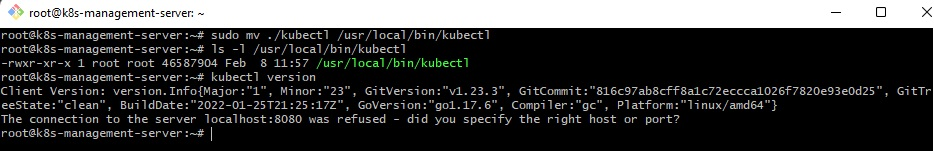
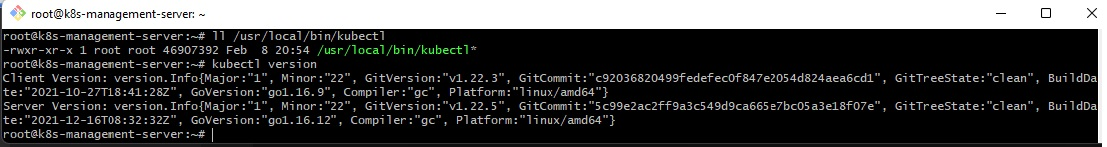
Rename DevOps-Project-Phase-5.md file to DevOps-Project-Phase-5-using-kops file

Changed region(s): [[0.0, 0.1633, 1.0, 1.0], [0.0, 0.0, 0.2173, 0.1361], [0.9315, 0.0272, 1.0, 0.1361]]

diff --git a/DevOps-Project-Phase-5-using-kops.md b/DevOps-Project-Phase-5-using-kops.md
@@ -4,7 +4,7 @@
 
 # A - Kubernetes (K8s) Cluster installation on AWS using Kops
 
- ### 1. Launch an EC2 instance k8s-manager-server
+ ### 1. Launch an EC2 instance k8s-management-server
    Uses Ubuntu Server 20.04 LTS AMI (64-bit Arm)
 
 ![ubuntu-server-20-04-lts-ami!](Images/Phase5/ubuntu-server-20-04-lts-ami.jpg)
@@ -39,8 +39,7 @@
     . curl https://s3.amazonaws.com/aws-cli/awscli-bundle.zip -o awscli-bundle.zip
     . ls
    ![download-awscli-bundle!](Images/Phase5/download-awscli-bundle.jpg)
-    
-    . apt install unzip python -y
+
     . unzip awscli-bundle.zip
     . ls
    ![unzip-awscli-bundle](Images/Phase5/unzip-awscli-bundle.jpg)
@@ -66,7 +65,7 @@
    ![chmod+x-kubectl!](Images/Phase5/chmod+x-kubectl.jpg)
 
     . sudo mv ./kubectl /usr/local/bin/kubectl
-    . ls -l /usr/local/bin/kubectl
+    . ll /usr/local/bin/kubectl
     . kubectl version
    ![kubectl-version!](Images/Phase5/kubectl-version.jpg)
 
@@ -86,7 +85,10 @@
 
       . sudo mv kops-linux-amd64 /usr/local/bin/kops
       . ls -l /usr/local/bin/kops
+      . kops version
    ![kops-version!](Images/Phase5/kops-version.jpg)
+   It is important that the version of kubectl(here v1.22.3) is the same as the version of kops(v1.22.3)
+   
 
 ### 6. Create an IAM user/role with Route53, EC2, IAM and S3 full access
 
@@ -151,7 +153,7 @@
 
 
 ### 7. Create a Route53 private hosted zone(you can create Public hosted zone if you have a domain)
-    Routeh53 --> DNS management 
+    Route53 --> DNS management 
     
     Click Create hosted zone button
 
@@ -170,7 +172,10 @@
 ### 8. Create S3 Bucket
 
     Create a bucket named "demo.k8s.mordehaic.net" running the next command:
-        . aws s3 us-west-1 s3://demo.k8s.mordehaic.net
+        . aws s3 mb s3://demo.k8s.mordehaic.net
+   ![create-bucket_using_awscli!](Images/Phase5/create-bucket_using_awscli.jpg)
+
+   View the Bucket created via the aws console
    ![create-bucket!](Images/Phase5/create-bucket.jpg)
 
    ### Check if our role is working by running the next command:
@@ -181,7 +186,6 @@
    ### demo.k8s.mordehaic.net
 
    We can access S3. This is the bucket we created
-
 
 ### 9. Expose environment variable:
     Run the next command on the terminal:
